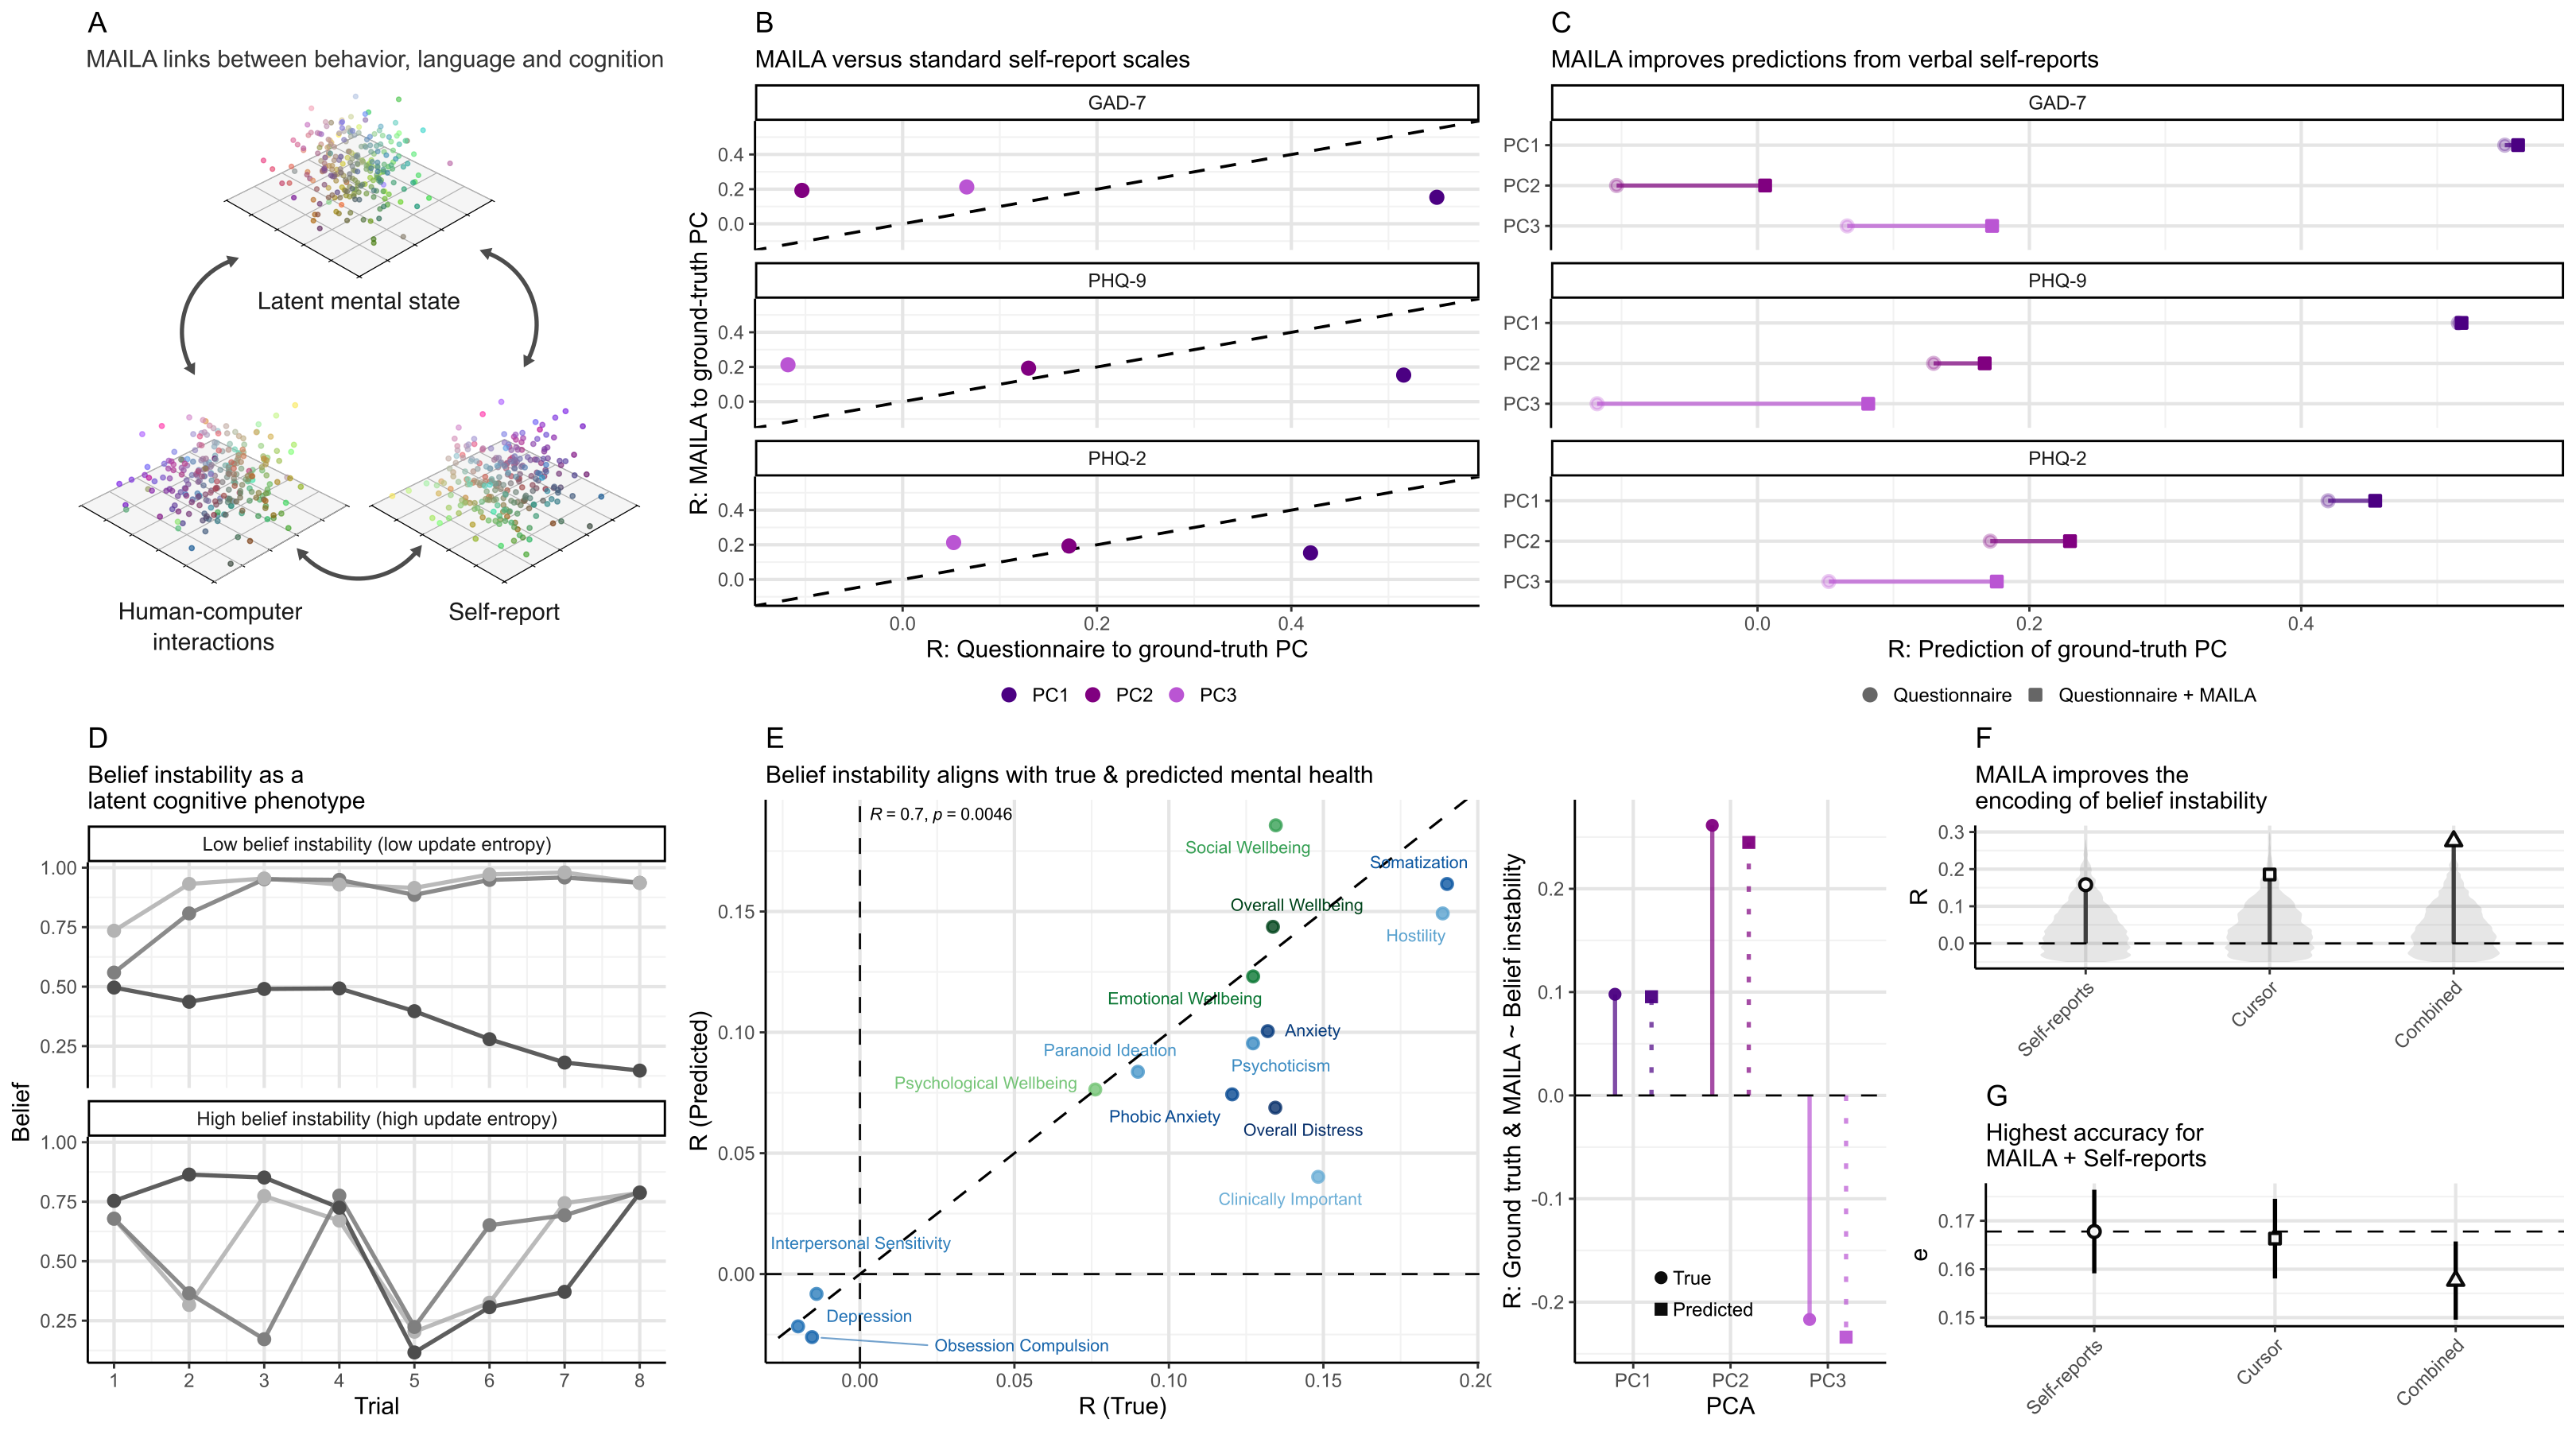
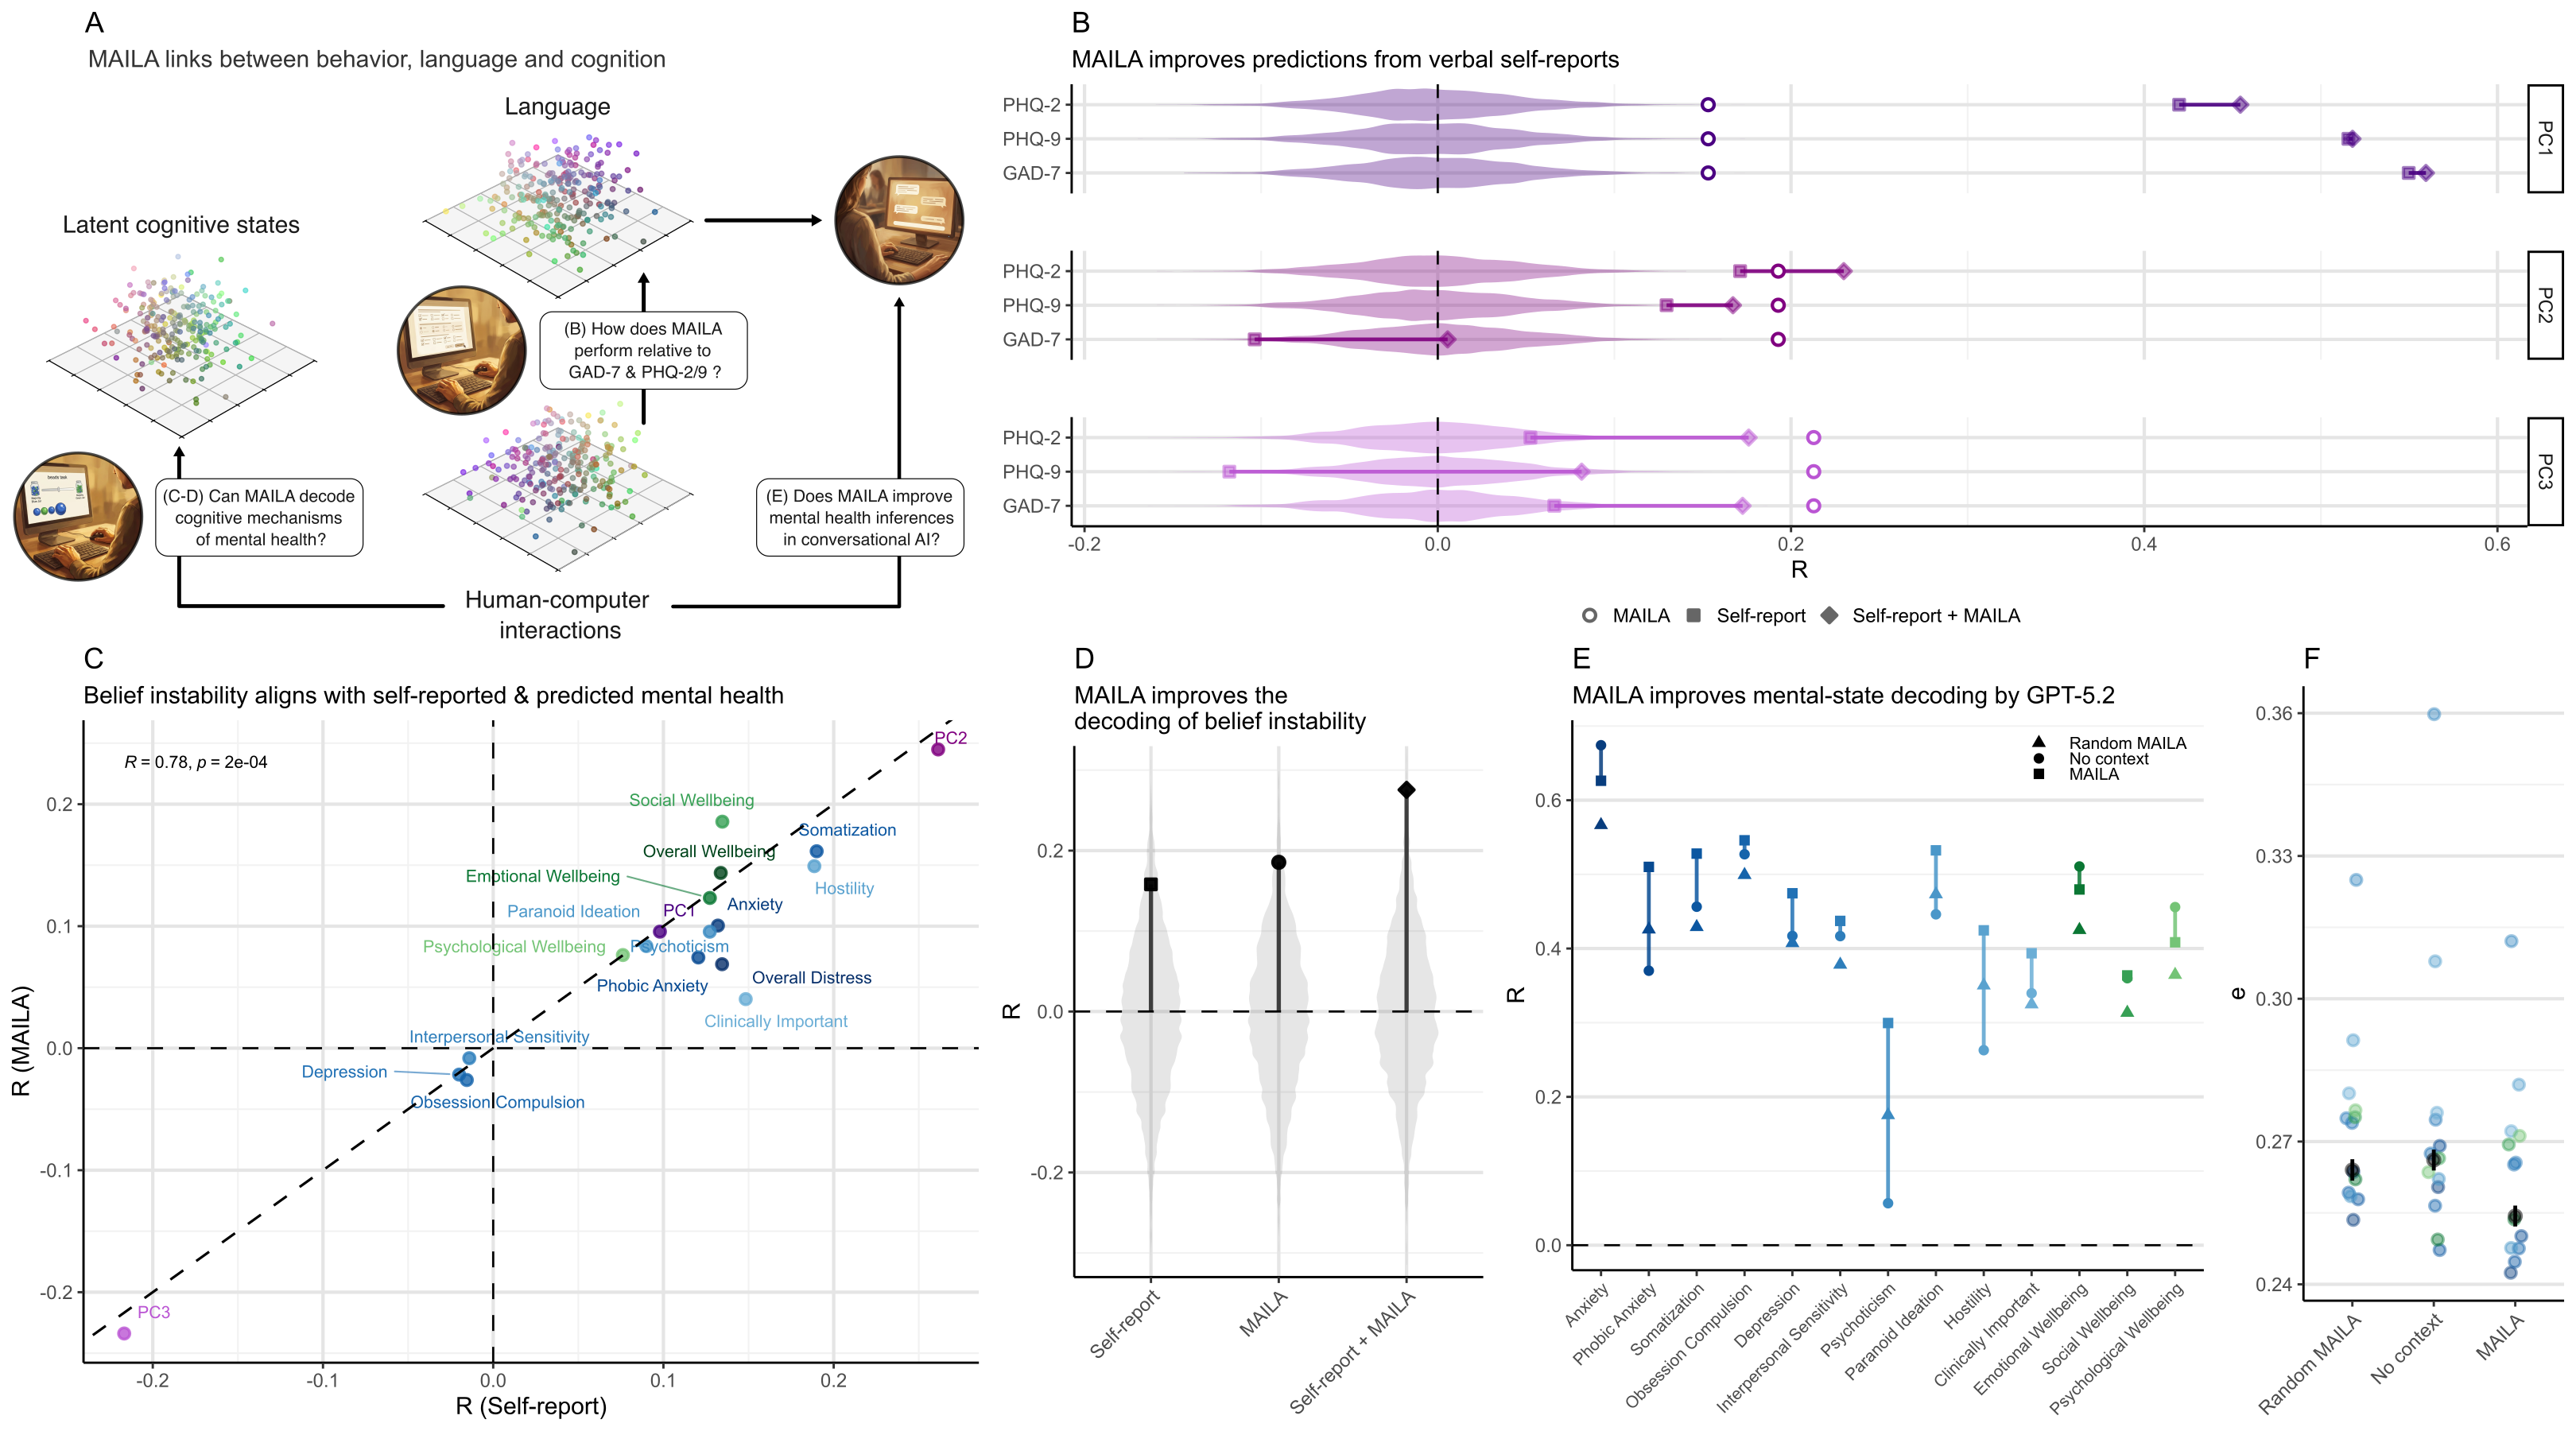
maila presentation update

diff --git a/assets/reveal/maila.html b/assets/reveal/maila.html
@@ -196,7 +196,7 @@
                         </div>
                     </div>
                         <small>
-                        <p><strong>Precision:</strong> Limited mechanistic understanding & accuracy</p>
+                        <p><strong>Accuracy:</strong> Limited mechanistic understanding</p>
                         <p><strong>Scalability:</strong> Duration of undiagnosed & untreated illness</p>
                          </small>
                     
@@ -336,6 +336,22 @@
                     <section data-auto-animate data-background-image = "cursor_mind/edit_rev_Figure_4.png" data-background-size = "contain">
                     </section>
 
+                    <section data-transition="fade">
+                    <img src="cursor_mind/Figure5A_1.png" alt="Paradigm Image" style="width: 80%; height: auto; background: none; border: none; box-shadow: none;" />
+                    </section>
+
+                    <section data-transition="fade">
+                    <img src="cursor_mind/Figure5A_2.png" alt="Paradigm Image" style="width: 80%; height: auto; background: none; border: none; box-shadow: none;" />
+                    </section>
+
+                    <section data-transition="fade">
+                    <img src="cursor_mind/Figure5A_3.png" alt="Paradigm Image" style="width: 80%; height: auto; background: none; border: none; box-shadow: none;" />
+                    </section>
+
+                    <section data-transition="fade">
+                    <img src="cursor_mind/Figure5A_4.png" alt="Paradigm Image" style="width: 80%; height: auto; background: none; border: none; box-shadow: none;" />
+                    </section>
+
                     <section data-auto-animate data-background-image = "cursor_mind/edit_rev_Figure_5.png" data-background-size = "contain">
                     </section>
 
@@ -367,7 +383,7 @@
                         </div>
                     </div>
                         <small>
-                        <p><strong>Precision:</strong> Limited mechanistic understanding & accuracy</p>
+                        <p><strong>Accuracy:</strong> Limited mechanistic understanding</p>
                         <p><strong>Scalability:</strong> Duration of undiagnosed & untreated illness</p>
                          </small>
                     </section>
@@ -406,8 +422,8 @@
                                     <li class="fragment">
                                     <strong>Evaluation &amp; Open Source</strong>
                                     <ul>
-                                        <li class="fragment">Ethical &amp; data protection challenges</li>
-                                        <li class="fragment">Transparency and interpretability of AI-supported models</li>
+                                        <li class="fragment">Ethical challenges</li>
+                                        <li class="fragment">Tracking with preserved anonymity</li>
                                     </ul>
                                     </li>
 